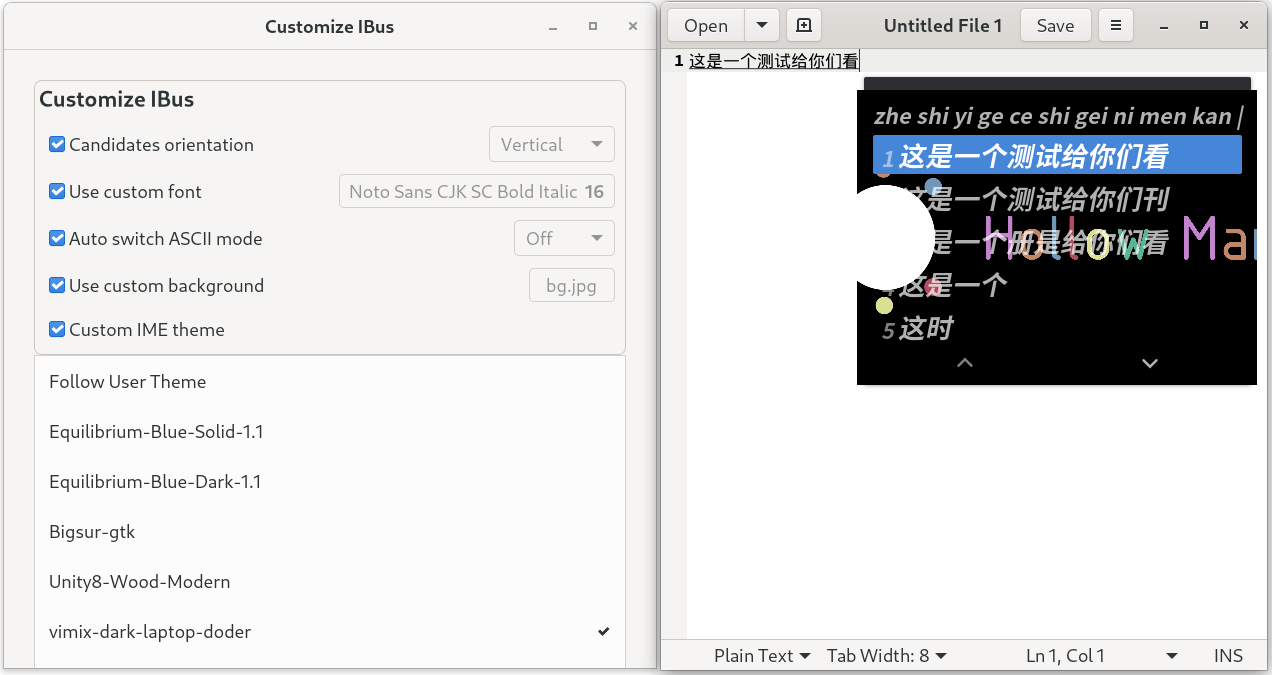
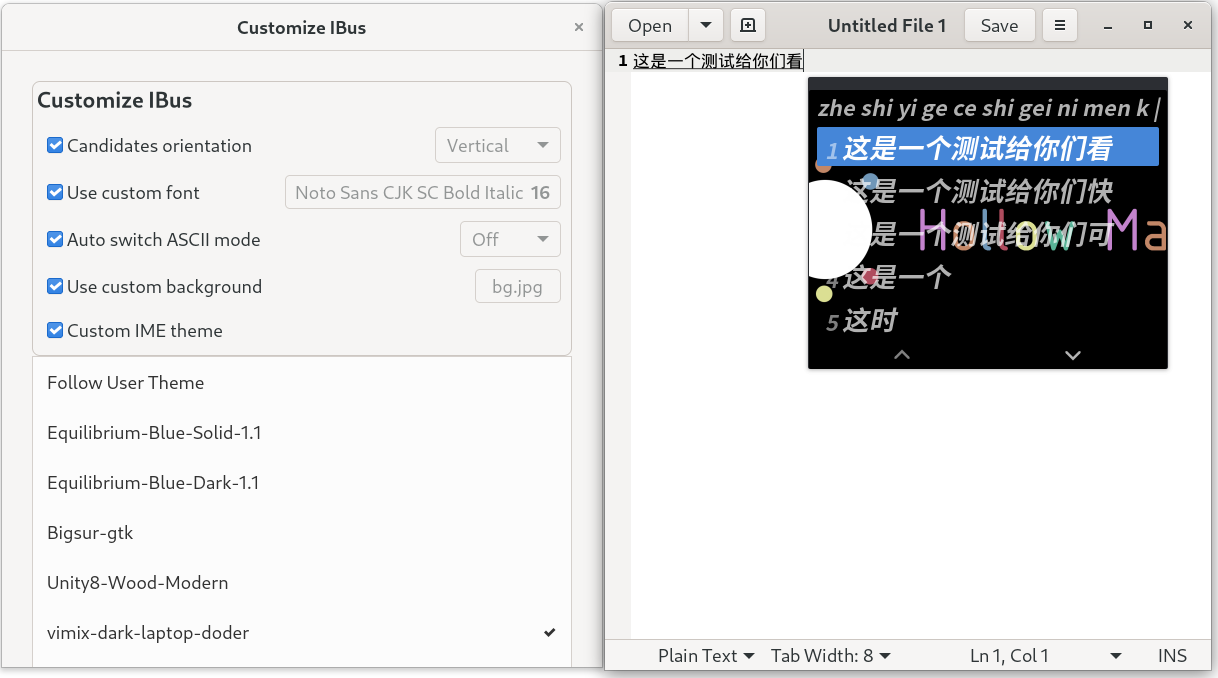
v10: Fix background picture showing style to fit current user style
By adding candidate-box style

diff --git a/customize-ibus@hollowman.ml/extension.js b/customize-ibus@hollowman.ml/extension.js
@@ -213,17 +213,22 @@ const IBusBGSetting = GObject.registerClass(
     set bg(bg) {
       global.log(_("loading background for IBus:") + bg);
       let candidateBox = CandidatePopup.bin.get_children();
-      if (candidateBox)
+      if (candidateBox) {
         candidateBox[0].set_style(
           'background: url("%s"); background-repeat:no-repeat; background-size:cover;'.format(
             bg
           )
         );
+        candidateBox[0].add_style_class_name("candidate-box");
+      }
     }
 
     destroy() {
       let candidateBox = CandidatePopup.bin.get_children();
-      if (candidateBox) candidateBox[0].set_style("");
+      if (candidateBox) {
+        candidateBox[0].set_style("");
+        candidateBox[0].remove_style_class_name("candidate-box");
+      }
     }
   }
 );

diff --git a/README.md b/README.md
@@ -1,4 +1,4 @@
-# 自定义IBus
+# 自定义 IBus
 
 [![last-commit](https://img.shields.io/github/last-commit/HollowMan6/Customize-IBus)](https://github.com/HollowMan6/Customize-IBus/graphs/commit-activity)
 [![release-date](https://img.shields.io/github/release-date/HollowMan6/Customize-IBus)](../../releases)
@@ -17,15 +17,15 @@
 
 (English version is down below)
 
-在GNOME Shell中更改IBus的候选框方向、shell主题、背景图片、字体和输入法默认语言。
+在 GNOME Shell 中更改 IBus 的候选框方向、shell 主题、背景图片、字体和输入法默认语言。
 
 ![demo](img/demo.png)
 
 ## 安装
 
-从GNOME扩展商店中获取：
+从 GNOME 扩展商店中获取：
 
-[<img src="https://raw.githubusercontent.com/andyholmes/gnome-shell-extensions-badge/master/get-it-on-ego.svg?sanitize=true" alt="Get it on GNOME Extensions" height="100" align="middle">][EGO]
+[<img src="https://raw.githubusercontent.com/andyholmes/gnome-shell-extensions-badge/master/get-it-on-ego.svg?sanitize=true" alt="Get it on GNOME Extensions" height="100" align="middle">][ego]
 
 或者手动自行安装：
 
@@ -38,36 +38,37 @@ cd Customize-IBus && make install
 
 ![image](img/preference.png)
 
-## 使用用户主题来更改IBus皮肤的实现
+## 使用用户主题来更改 IBus 皮肤的实现
 
-当用户从主题列表中选中一个主题，本扩展会首先读取该主题的定义CSS文件，从中提取出定义IBus皮肤的类样式(`.candidate-*`)，然后将其写入本扩展的`stylesheet.css`文件。最后重启GNOME-shell。
+当用户从主题列表中选中一个主题，本扩展会首先读取该主题的定义 CSS 文件，从中提取出定义 IBus 皮肤的类样式(`.candidate-*`)，然后将其写入本扩展的`stylesheet.css`文件。最后重启 GNOME-shell。
 
-### *提示：* 
-1. 推荐使用X11。如果你在Wayland中更改IBus主题，你的当前所有工作都将会丢失，因为Wayland下只支持通过重新登陆来重启GNOME-shell。
-2. 在Fedora和Ubuntu，GNOME-shell [3.38](../../tree/3.38)(v3，v5，v9(GNOME3.38最终版))，40.0(v4，v8)中通过了测试。
-3. 对于那些不使用GNOME而是使用如KDE等桌面环境的用户，更改IBus主题最简单的方法请参见[这里](https://github.com/qvshuo/Ibus-custom-theme)，从而为IBus指定一个不同的GTK主题。
+### _提示：_
 
-## 更改IBus背景图片的实现
+1. 推荐使用 X11。如果你在 Wayland 中更改 IBus 主题，你的当前所有工作都将会丢失，因为 Wayland 下只支持通过重新登陆来重启 GNOME-shell。
+2. 在 Fedora 和 Ubuntu，GNOME-shell [3.38](../../tree/3.38)(v3，v5，v9，v11(GNOME3.38 最终版))，40.0(v4，v8，v10)中通过了测试。
+3. 对于那些不使用 GNOME 而是使用如 KDE 等桌面环境的用户，更改 IBus 主题最简单的方法请参见[这里](https://github.com/qvshuo/Ibus-custom-theme)，从而为 IBus 指定一个不同的 GTK 主题。
 
-在[修复Unity8-Wood主题对IBus背景支持](https://github.com/openSUSE/mentoring/issues/158#issuecomment-813837436)时发现为`.candidate-popup-content`增加如下样式：
+## 更改 IBus 背景图片的实现
+
+在[修复 Unity8-Wood 主题对 IBus 背景支持](https://github.com/openSUSE/mentoring/issues/158#issuecomment-813837436)时发现为`.candidate-popup-content`增加如下样式：
 
 ```css
-  background: url("assets/bg.png");
-  background-repeat:no-repeat;
-  background-size:cover;
+background: url("assets/bg.png");
+background-repeat: no-repeat;
+background-size: cover;
 ```
 
 即可实现对背景的修改。
 
-进一步结合[ibus-font-setting](https://extensions.gnome.org/extension/1121/ibus-font-setting/)和[background-logo](https://pagure.io/background-logo-extension)，参考GNOME-Shell源代码中`candidate-popup-content`样式[对应组件](https://gitlab.gnome.org/GNOME/gnome-shell/-/blob/master/js/ui/ibusCandidatePopup.js#L154)，并对其修改样式实现不重启GNOME-Shell进行IBus背景图片的修改。
+进一步结合[ibus-font-setting](https://extensions.gnome.org/extension/1121/ibus-font-setting/)和[background-logo](https://pagure.io/background-logo-extension)，参考 GNOME-Shell 源代码中`candidate-popup-content`样式[对应组件](https://gitlab.gnome.org/GNOME/gnome-shell/-/blob/master/js/ui/ibusCandidatePopup.js#L154)，并对其修改样式实现不重启 GNOME-Shell 进行 IBus 背景图片的修改。
 
 ## 备忘
 
-- [X] 从[ibus-tweaker](https://github.com/tuberry/ibus-tweaker)中导入，去除与IBus无关功能。
-- [X] 从用户主题中读取IBus相关样式
-- [X] 将相关功能合并在一起。
-- [X] V4: 从GTK3升级到GTK4来适配GNOME40。
-- [X] V8: 增加更改IBus背景图片功能。
+- [x] 从[ibus-tweaker](https://github.com/tuberry/ibus-tweaker)中导入，去除与 IBus 无关功能。
+- [x] 从用户主题中读取 IBus 相关样式
+- [x] 将相关功能合并在一起。
+- [x] V4: 从 GTK3 升级到 GTK4 来适配 GNOME40。
+- [x] V8: 增加更改 IBus 背景图片功能。
 
 ## 致谢
 
@@ -77,7 +78,7 @@ cd Customize-IBus && make install
 4. [shell-restarter](https://github.com/koolskateguy89/gnome-shell-extension-shell-restarter)
 5. [background-logo](https://pagure.io/background-logo-extension)
 
-*该项目是谷歌编程之夏 (GSoC) 2021于[OpenSUSE](https://github.com/openSUSE/mentoring/issues/158)社区成果的一部分。*
+_该项目是谷歌编程之夏 (GSoC) 2021 于[OpenSUSE](https://github.com/openSUSE/mentoring/issues/158)社区成果的一部分。_
 
 # Customize IBus
 
@@ -86,7 +87,8 @@ Customize IBus for orientation, shell theme, background picture, font and ascii 
 ![demo](img/demo-en.png)
 
 ## Installation
-[<img src="https://raw.githubusercontent.com/andyholmes/gnome-shell-extensions-badge/master/get-it-on-ego.svg?sanitize=true" alt="Get it on GNOME Extensions" height="100" align="middle">][EGO]
+
+[<img src="https://raw.githubusercontent.com/andyholmes/gnome-shell-extensions-badge/master/get-it-on-ego.svg?sanitize=true" alt="Get it on GNOME Extensions" height="100" align="middle">][ego]
 
 Or manually:
 
@@ -103,9 +105,10 @@ cd Customize-IBus && make install
 
 When user chooses a theme from the list, this extension will first read the theme CSS file, extract the IBus related style classes (`.candidate-*`), then write it to extension's `stylesheet.css`. Finally restart the GNOME-shell.
 
-### *NOTE:* 
+### _NOTE:_
+
 1. Recommend to use X11. If you change IME theme under Wayland, all your current work may be lost (Since Wayland only support relogin to restart the GNOME-shell).
-2. Tested on Fedora and Ubuntu, GNOME-shell [3.38](../../tree/3.38)(v3, v5, v9(final version for GNOME 3.38)), 40.0(v4, v8).
+2. Tested on Fedora and Ubuntu, GNOME-shell [3.38](../../tree/3.38)(v3, v5, v9, v11(final version for GNOME 3.38)), 40.0(v4, v8, v10).
 3. For users who don't use GNOME but other desktop environments like KDE, the easiest way to change the IBus theme is to act as described in [here](https://github.com/qvshuo/Ibus-custom-theme) to use a different GTK theme for IBus.
 
 ## Realization of Modifying IBus Background Picture
@@ -113,9 +116,9 @@ When user chooses a theme from the list, this extension will first read the them
 During [fixing Unity8-Wood theme and add support for IBus Backgound](https://github.com/openSUSE/mentoring/issues/158#issuecomment-813837436), I found that if I add the following style for class `.candidate-popup-content`：
 
 ```css
-  background: url("assets/bg.png");
-  background-repeat:no-repeat;
-  background-size:cover;
+background: url("assets/bg.png");
+background-repeat: no-repeat;
+background-size: cover;
 ```
 
 I can modify the background picture.
@@ -124,11 +127,11 @@ Further combining [ibus-font-setting](https://extensions.gnome.org/extension/112
 
 ## To-do
 
-- [X] Import from [ibus-tweaker](https://github.com/tuberry/ibus-tweaker) and remove features unrelated to IBus.
-- [X] Read from user themes and apply only for ibus.
-- [X] Merge functions related together.
-- [X] V4: Update from GTK3 to GTK4 to adapt for GNOME40.
-- [X] V8: Add functionality to modify IBus Background picture.
+- [x] Import from [ibus-tweaker](https://github.com/tuberry/ibus-tweaker) and remove features unrelated to IBus.
+- [x] Read from user themes and apply only for ibus.
+- [x] Merge functions related together.
+- [x] V4: Update from GTK3 to GTK4 to adapt for GNOME40.
+- [x] V8: Add functionality to modify IBus Background picture.
 
 ## Acknowledgements
 
@@ -138,6 +141,6 @@ Further combining [ibus-font-setting](https://extensions.gnome.org/extension/112
 4. [shell-restarter](https://github.com/koolskateguy89/gnome-shell-extension-shell-restarter)
 5. [background-logo](https://pagure.io/background-logo-extension)
 
-*This project is part of the achievement of the Google Summer of Code 2021 at [OpenSUSE](https://github.com/openSUSE/mentoring/issues/158).*
+_This project is part of the achievement of the Google Summer of Code 2021 at [OpenSUSE](https://github.com/openSUSE/mentoring/issues/158)._
 
-[EGO]:https://extensions.gnome.org/extension/4112/customize-ibus/
+[ego]: https://extensions.gnome.org/extension/4112/customize-ibus/
